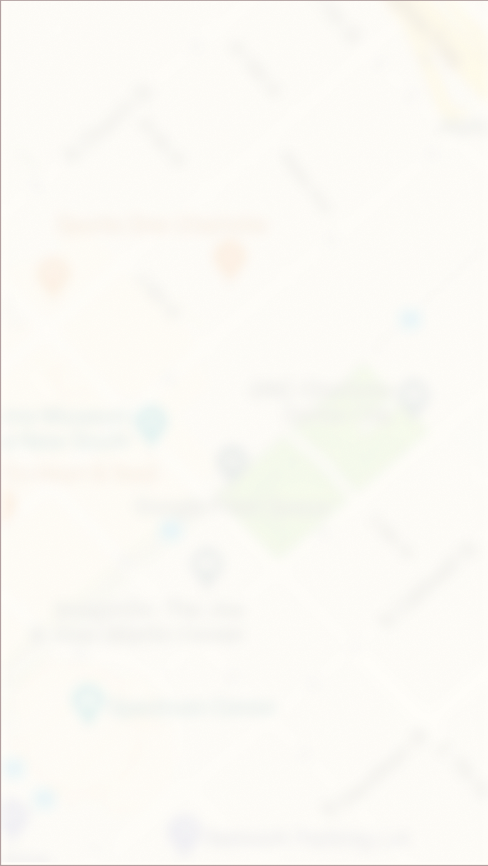
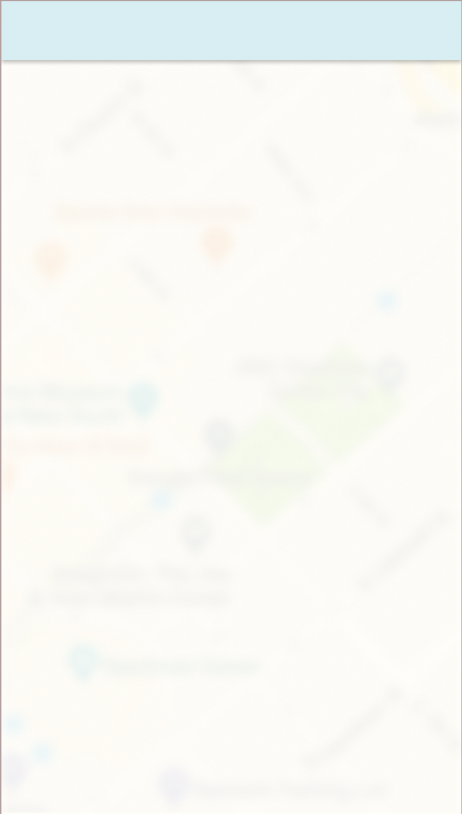
new
new

Changed region(s): [[0.0, 0.0, 1.0, 0.0921], [0.9697, 0.9828, 1.0, 1.0]]

diff --git a/src/Pages/CreateAccount.js b/src/Pages/CreateAccount.js
@@ -1,10 +1,24 @@
 import './CreateAccount.css';
 import bg from '../image/background.png';
+import lg2 from '../image/logo2.png';
+import bg from '../image/background.png'; // import the new background image
+
 export default function CreateAccount() {
   return (
-    <div>
-      <img className='kuy' src={bg} alt="bg" />
-      <h1>kuy</h1>
+    <div style={{backgroundImage: `url(${bg})`}}> {/* set the new background image */}
+      <h1> Create an account</h1>
+      <h2>Already have an account? <a href="url">Sign in</a></h2>
+      <h3>Username</h3>
+      <form action='/google.com'>
+        <input type="text" id="Username" name="Username"></input>
+        <h3>Password</h3>
+        <input type="text" id="Password" name="Password"></input>
+        <h3>ConfirmedPassword</h3>
+        <input type="text" id="ConfirmedPassword" ></input>
+        <h3>PhoneNumber</h3>
+        <input type="password" id="PhoneNumber" name="PhoneNumber"></input>
+        <input type="Continue" value="Continue"></input>
+      </form>
     </div>
   )
 }

diff --git a/src/Pages/CreateAccount.css b/src/Pages/CreateAccount.css
@@ -1,4 +1,36 @@
 .kuy{
-    width: 500px;
-    height: auto;
+    width: 100%;
+    
+    object-position: 20% ;
 }
+.no-spacing {
+  margin: 0;
+  padding: 0;
+}
+/* body{
+    background-image: "background.png";
+    background-repeat: no-repeat;
+    background-attachment: fixed;
+    background-position: center;
+} */
+h1 {
+    text-align: center;
+   
+    flex-shrink: 0;
+    color: #38A6B5;
+    text-align: center;
+    font-family: Inter;
+    font-size: 24px;
+    font-style: normal;
+    font-weight: 700;
+    line-height: normal;
+}
+h2 {
+    text-align: center;
+}
+h3 {
+    text-align: center;
+}
+  
+        
+  

diff --git a/src/Pages/SignIn.js b/src/Pages/SignIn.js
@@ -1,0 +1,17 @@
+import './SignIn.css';
+import bg from '../image/background.png';
+export default function CreateAccount() {
+    return(
+        <div>
+            <img className='kuy' src={bg} alt="bg" />        
+            <h1> Sign In</h1>
+            <h2>Do not have any account? <a href="url">Sign up</a></h2>
+            <form action='/google.com'>
+            <h3>Username</h3>
+            <input type="text" id="Username" name="Username"></input>
+            <h3>Password</h3>
+            <input type="text" id="Password" name="Password"></input>
+            </form>
+        </div>
+    )
+}

diff --git a/src/index.js b/src/index.js
@@ -4,11 +4,14 @@ import './index.css';
 // import App from './App';
 import CreateAccount from './Pages/CreateAccount';
 import reportWebVitals from './reportWebVitals';
+import Navbar from './components/Navbar';
 
 const root = ReactDOM.createRoot(document.getElementById('root'));
 root.render(
   <React.StrictMode>
+  <div style={{ display: 'grid', gridTemplateColumns: 'fixed', gap: '0' }}>
     <CreateAccount />
+  </div>
   </React.StrictMode>
 );
 

diff --git a/src/components/Navbar.js b/src/components/Navbar.js
@@ -1,5 +1,5 @@
 import React from "react";
-import Logo from "../../src/Logo.png";
+import Logo from "../image/logo.svg";
 
 export default function Navbar({ fixed }) {
   //ok until 360 below
